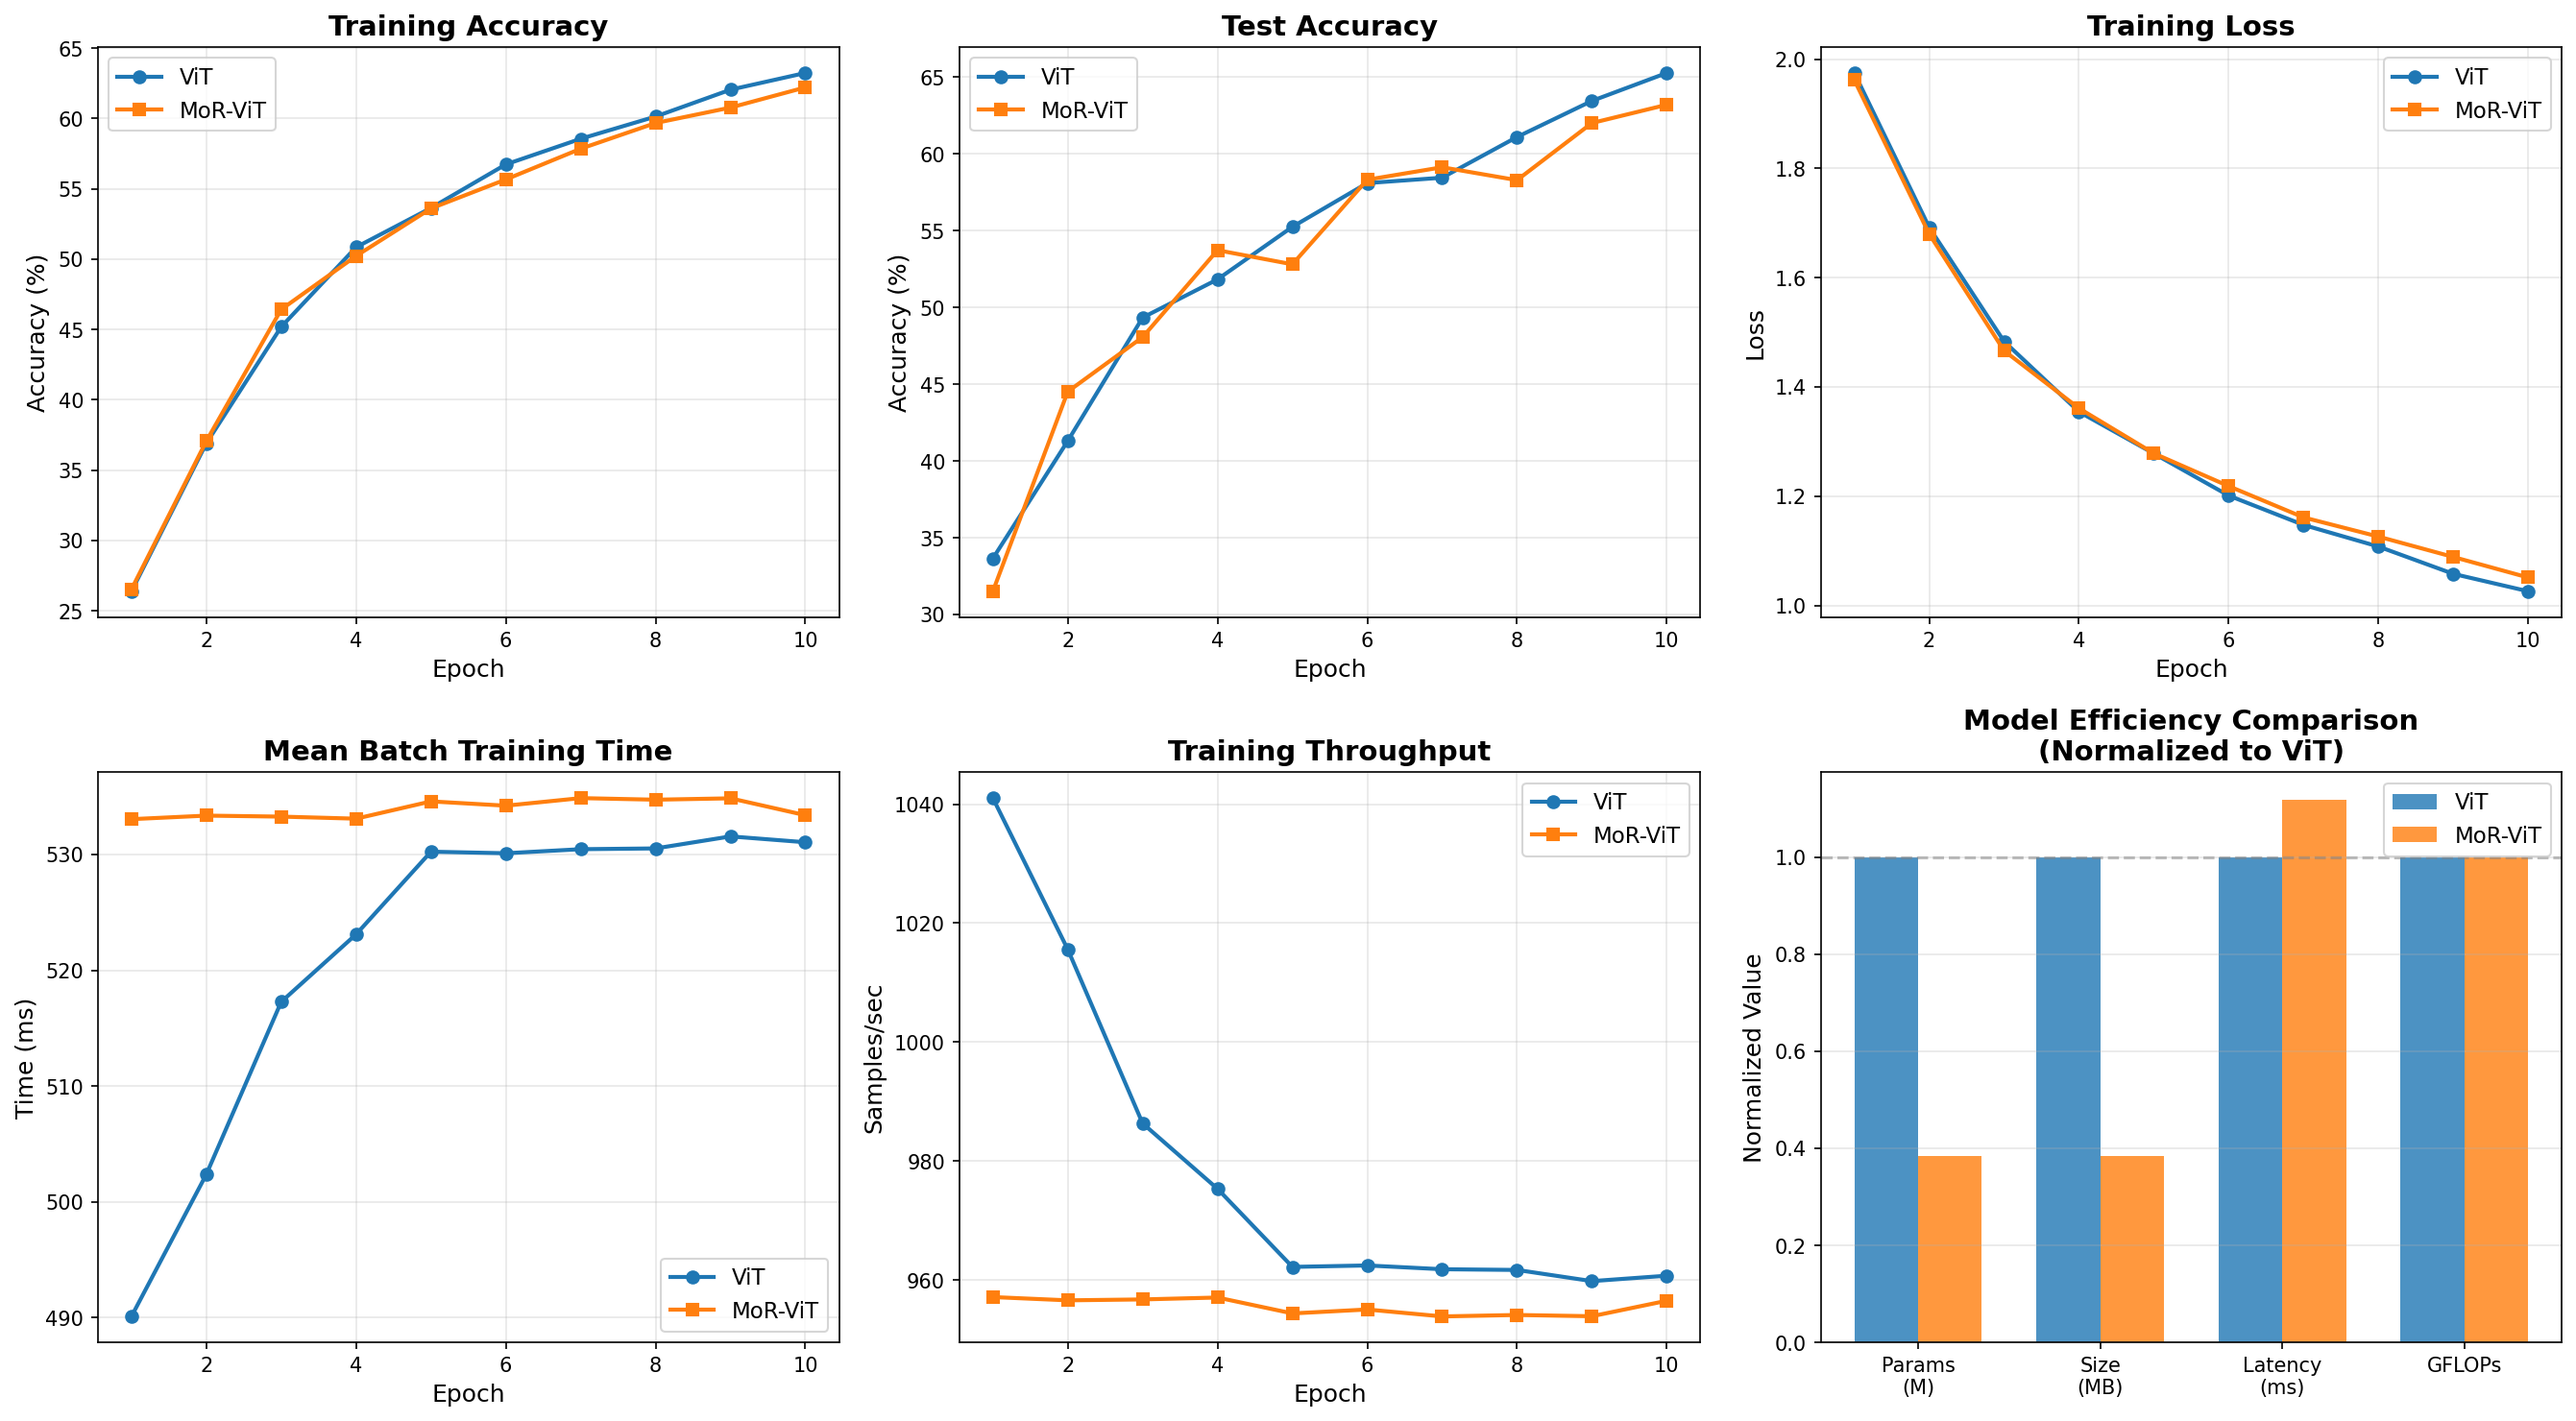
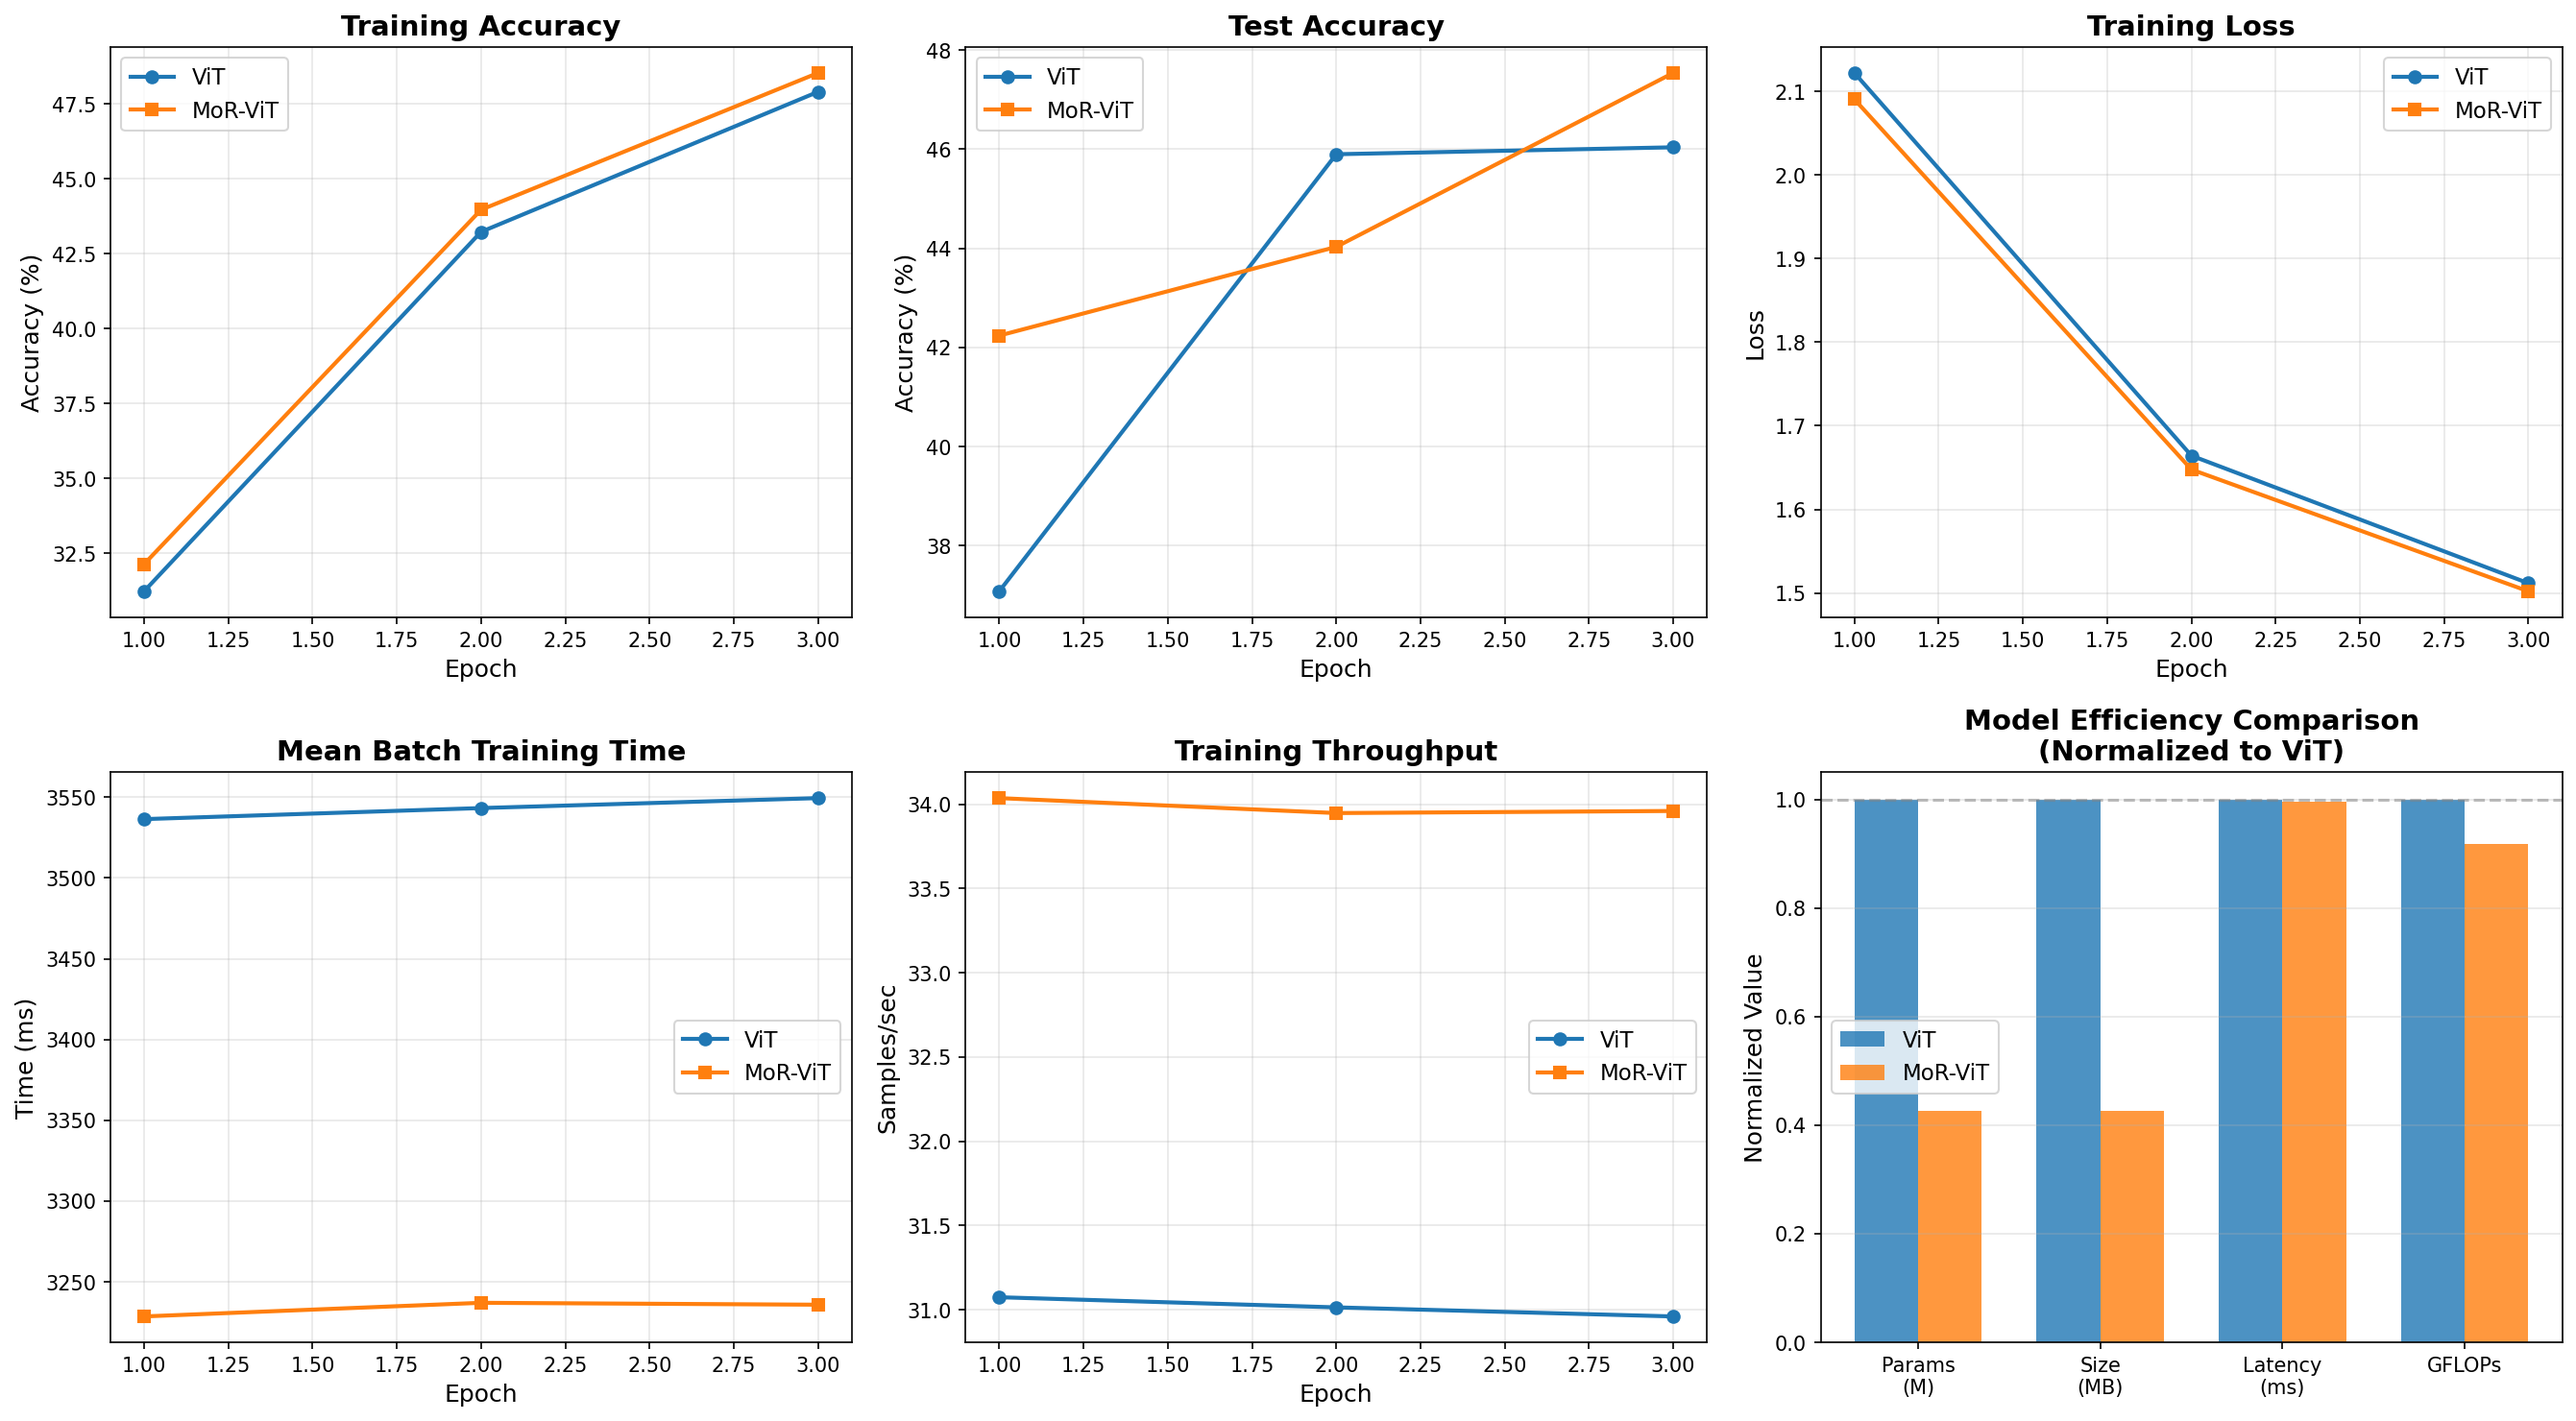
update: Readme

diff --git a/models/mor_model/__init__.py b/models/mor_model/__init__.py
@@ -40,7 +40,7 @@ class MoRViTModel(ViTPreTrainedModel):
         for layer, heads in heads_to_prune.items():
             self.encoder.layer[layer].attention.prune_heads(heads)
 
-    @check_model_inputs
+    # @check_model_inputs
     @auto_docstring
     def forward(
         self,

diff --git a/README.md b/README.md
@@ -1,22 +1,8 @@
 # Vision-MoR
-We have implemented a Mixture of Regressions (MoR) inspired architecture for vision tasks. For base model, we have used the ViT architecture from transformers library, with a custom configuration, and compared it against our model. This repository contains the code and instructions to reproduce the results presented below.
+We have implemented a Mixture of Regressions (MoR) inspired architecture for vision tasks. For base model, we have used the ViT architecture from transformers library, with the configuration of pretrained model `google/vit-base-patch16-224`, and compared it against our model. This repository contains the code and instructions to reproduce the results presented below.
 
 ### Configuration
-For current version, we have used the following configuration for both Vision MoR and ViT architectures:
-
-| Parameter               | Value      |
-|------------------------|------------|
-| Image Size             | 32×32      |
-| Patch Size             | 4×4        |
-| Embedding dim          | 256        |
-| Intermediate Size      | 1024       |
-| Attention Heads        | 8          |
-| Transformer Layers     | 6          |
-| No. of Recursions (MoR)| 6          |
-| No. of Recursions (MoR)| 6          |
-| Batch Size             | 512        |
-| Epochs                 | 10         |
-| Learning Rate          | 3e-4       |
+For current version, we have used a pretrained configuration of ViT model `google/vit-base-patch16-224`. The model has been fine-tuned on CIFAR-10 dataset for 3 epochs(due to computation constraints) with a batch size of 110. The training was performed on a single google colab free-tier GPU (NVIDIA Tesla T4).
 
 ## Installation
 To install the required dependencies, please run the following command:
@@ -38,18 +24,18 @@ The results of our experiment are as follows:
 
 | Metric          | ViT architecture | Vision MoR (our) | Improvement |
 |----------------|------------------|------------------|-------------|
-| Parameters (M)       | 4.83             | 1.68             | 65.3%       |
-| Model Size (MB)           | 18.44            | 6.40             | 65.3%       |
-| Inference Latency (ms)   | 117.38           | 46.24            | 60.6%       |
-| Throughput (samples/s)  | 4361.86          | 11071.98         | 153.8%      |
-| GFLOPs                 | 0.31             | 0.10             | 66.4%       |
-| Final Test Accuracy (%)   | 64.98            | 62.81            | -2.17%      |
-| Peak Training Memory (MB) | 3426.17          | 1375.01          | 59.9%       |
+| Parameters (M) | 86.39 | 36.78 | 57.4% |
+| Model Size (MB) | 329.55 | 140.29 | 57.4% |
+| Inference Latency (ms) | 1160.35 | 1155.34 | 0.4% |
+| Throughput (samples/s) | 94.80 | 95.21 | 0.4% |
+| GFLOPs | 16.85 | 15.45 | 8.3% |
+| Final Test Accuracy (%) | 46.04 | 47.54 | 1.50% |
+| Peak Training Memory (MB) | 13755.05 | 13486.61 | 2.0% |
 
 ![results](image.png)
 
 ## Conclusion
-The Vision MoR architecture demonstrates similar Training and Test Accuracy and Loss compared to a classic ViT, while achieving significant improvement in Training time, throughput and efficiency in CIFAR-10 dataset.
+The Vision MoR architecture demonstrates similar Training and Test Accuracy and Loss compared to a classic ViT, while achieving significant improvement in Parameters and Model Size for CIFAR-10 dataset.
 
 ## License
 This project is licensed under the MIT License. See the [LICENSE](LICENSE) file for details.
